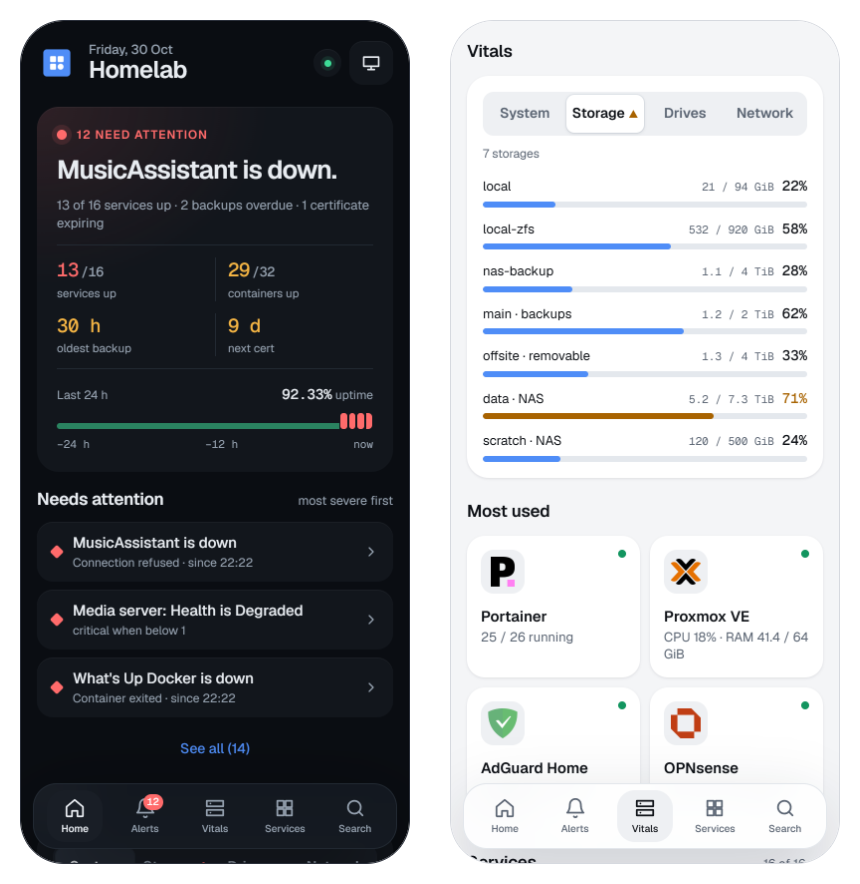
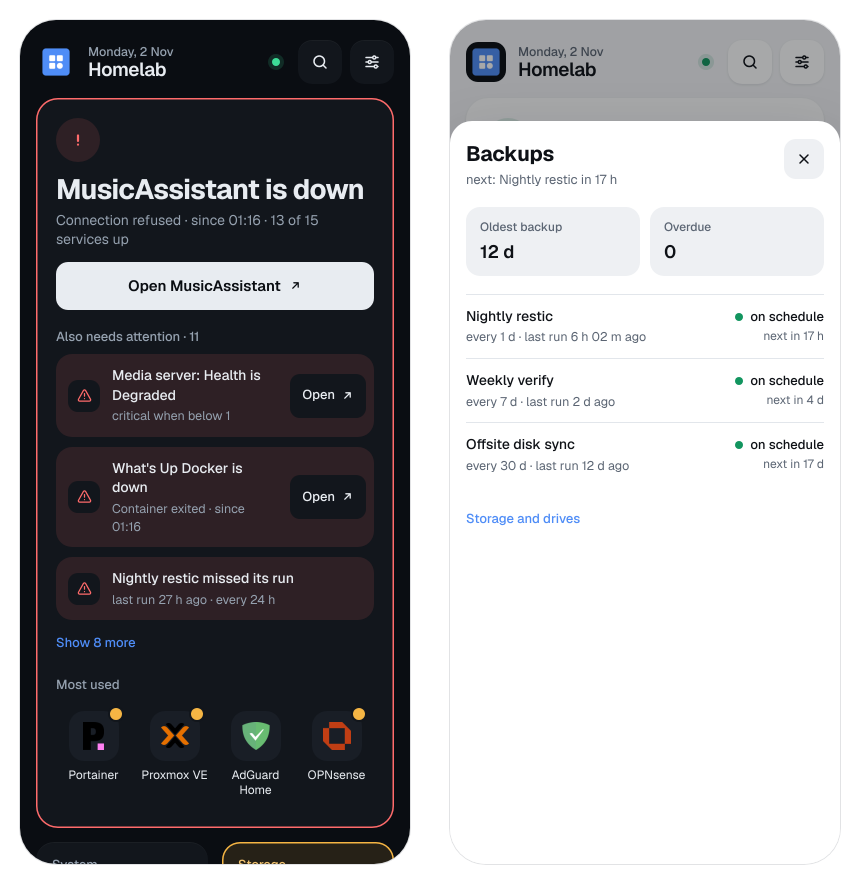
Service sheet activity, new README screenshots
- The service sheet lists what is raised about the service now and its
  events of the last 7 days, from a new read-only /api/events?sid= route
  (known service ids only), refreshed when something changes.
- db: serviceEvents(sid, since, limit) with an (sid, ts) index.
- README screenshots retaken in demo mode for the redesign; alt texts
  describe the new layout.
- config.example: the two new backup jobs used a selfh.st icon that does
  not exist; they use rclone and proxmox-backup-server.

Claude-Session: https://claude.ai/code/session_01BawsogARvbpupzuU6fZL8L

diff --git a/src/routes/+page.svelte b/src/routes/+page.svelte
@@ -130,6 +130,26 @@
   const sheetId = $derived(sheet?.kind === 'service' ? sheet.id : null);
   const sheetTile = $derived(sheetId ? allServices.find((t) => t.id === sheetId) ?? null : null);
   const sheetJob = $derived(sheetId ? jobById.get(sheetId) ?? null : null);
+  // the service sheet's activity: what is raised about it now, then its events of the last 7 days (fetched, since the
+  // snapshot only carries the latest events of all services), refreshed when something changes
+  let svcEvents = $state<{ sid: string; items: FeedItem[] } | null>(null);
+  $effect(() => {
+    const sid = sheetId;
+    void snap?.lastChange;
+    if (!sid || !sheetOpen) return;
+    const ctl = new AbortController();
+    fetch(`/api/events?sid=${encodeURIComponent(sid)}`, { signal: ctl.signal })
+      .then((r) => (r.ok ? r.json() : []))
+      .then((items: FeedItem[]) => (svcEvents = { sid, items }))
+      .catch(() => {});
+    return () => ctl.abort();
+  });
+  const sheetActivity = $derived.by(() => {
+    if (!snap || !sheetId) return [];
+    const raised = snap.attention.filter((a) => a.sid === sheetId);
+    const past = svcEvents?.sid === sheetId ? svcEvents.items : snap.events.filter((e) => e.sid === sheetId);
+    return [...raised, ...past.filter((e) => !raised.some((a) => a.title.endsWith(e.title)))];
+  });
   const sheetTitle = $derived(
     sheet?.kind === 'service' ? sheetTile?.name ?? '' : sheet?.kind === 'vitals' ? 'Vitals' : sheet?.kind === 'backups' ? 'Backups' : 'Activity'
   );
@@ -464,6 +484,14 @@
         {#if t.cert}<div><dt>Certificate</dt><dd>{t.cert.days < 0 ? 'expired' : `valid ${t.cert.days} d`}{t.cert.selfSigned ? ' · self-signed' : ''}</dd></div>{/if}
         {#if t.description}<div><dt>About</dt><dd>{t.description}</dd></div>{/if}
       </dl>
+      <div class="sh-block">
+        <div class="sh-row"><span class="st">Activity</span><span class="muted small">Last 7 days</span></div>
+        {#if sheetActivity.length}
+          <ul class="evs">{#each sheetActivity as a (a.ts + a.title)}{@render event(a)}{/each}</ul>
+        {:else}
+          <p class="muted small">No events in the last 7 days.</p>
+        {/if}
+      </div>
     {:else if sheet?.kind === 'vitals'}
       <Vitals host={snap.host} storage={snap.storage} drives={snap.drives} network={snap.network} {target} initial={sheet.tab} />
     {:else if sheet?.kind === 'backups'}

diff --git a/src/lib/server/db.ts b/src/lib/server/db.ts
@@ -29,6 +29,7 @@ export function openDb(): DatabaseSync {
     CREATE INDEX IF NOT EXISTS metrics_key_ts ON metrics (key, ts);
     CREATE TABLE IF NOT EXISTS events (id INTEGER PRIMARY KEY, ts INTEGER NOT NULL, sev TEXT NOT NULL, sid TEXT, title TEXT NOT NULL, detail TEXT);
     CREATE INDEX IF NOT EXISTS events_ts ON events (ts);
+    CREATE INDEX IF NOT EXISTS events_sid_ts ON events (sid, ts);
     CREATE TABLE IF NOT EXISTS opens (sid TEXT PRIMARY KEY, n INTEGER NOT NULL DEFAULT 0, last INTEGER, score REAL NOT NULL DEFAULT 0);
     CREATE TABLE IF NOT EXISTS kv (k TEXT PRIMARY KEY, v TEXT);
   `);
@@ -57,6 +58,11 @@ export const insertEvent = (ts: number, sev: WidgetEvent['sev'], sid: string | n
 
 export function recentEvents(since: number, limit = 6) {
   return all<EventRow>('SELECT ts, sev, sid, title, detail FROM events WHERE ts >= ? ORDER BY ts DESC LIMIT ?', since, limit);
+}
+
+/** One service's events, newest first: the service sheet's activity. */
+export function serviceEvents(sid: string, since: number, limit = 30) {
+  return all<EventRow>('SELECT ts, sev, sid, title, detail FROM events WHERE sid = ? AND ts >= ? ORDER BY ts DESC LIMIT ?', sid, since, limit);
 }
 
 export function lastProbes(sid: string, n: number) {

diff --git a/src/lib/server/check.test.ts b/src/lib/server/check.test.ts
@@ -12,7 +12,7 @@ process.env.CONFIG_DIR = tmp;
 delete process.env.DEMO;
 const { kindOf, record, status } = await import('./check.ts');
 const { heartbeatState } = await import('./heartbeat.ts');
-const { lastProbes, recentEvents } = await import('./db.ts');
+const { lastProbes, serviceEvents } = await import('./db.ts');
 const { reasonText } = await import('./http.ts');
 const { fmtClock, fmtDuration } = await import('./format.ts');
 const { snapshotInput } = await import('./test-helpers.ts');
@@ -31,7 +31,7 @@ function one(def: TestService) {
   const s = input.cfg.services[0];
   return { s, st: input.state(s.id) };
 }
-const events = (sid: string) => recentEvents(0, 100).filter((e) => e.sid === sid).reverse().map((e) => [e.sev, e.title, e.detail]);
+const events = (sid: string) => serviceEvents(sid, 0, 100).reverse().map((e) => [e.sev, e.title, e.detail]);
 /** History rows, oldest first. */
 const history = (sid: string) => lastProbes(sid, 100).reverse().map((r) => r.ok);
 

diff --git a/src/routes/api/events/+server.ts b/src/routes/api/events/+server.ts
@@ -1,0 +1,15 @@
+import type { RequestHandler } from './$types';
+import { json } from '@sveltejs/kit';
+import { getEngine } from '$lib/server/engine.ts';
+import { serviceEvents } from '$lib/server/db.ts';
+
+const WEEK = 7 * 86_400_000;
+
+// One service's events over the last 7 days, for its sheet. The snapshot only carries the last 20 events of all services.
+export const GET: RequestHandler = ({ url }) => {
+  const sid = url.searchParams.get('sid');
+  const service = sid && getEngine().cfg.services.find((s) => s.id === sid);
+  if (!service) return new Response(null, { status: 404 });
+  const events = serviceEvents(service.id, Date.now() - WEEK).map((e) => ({ ...e, href: service.href ?? null }));
+  return json(events, { headers: { 'cache-control': 'no-store' } });
+};

diff --git a/README.md b/README.md
@@ -8,12 +8,12 @@ A self-hosted launcher and status page for a homelab on **any Docker host**: it 
 
 It is made for your **LAN or VPN** (WireGuard, Tailscale, …): it has no login of its own and must not be reachable from the internet.
 
-![Dashboard in dark mode: the overall status, the problems that need attention, host vitals and the most used services](docs/screenshots/desktop-dark.png)
+![Dashboard in dark mode with problems: the top problem with its Open button, the others that need attention, the most used services, the four vitals cards, the launcher and recent activity](docs/screenshots/desktop-dark.png)
 
 - **One glance.** One sentence gives the state ("All 15 services up · 3 jobs on schedule", or the most important problem with a button to open that service), then whatever else needs attention, most severe first. When all is well, the page is short and quiet.
 - **Vitals at a glance, details on demand.** Four cards with one figure each: **System** (CPU, memory, temperature of the Proxmox node or the machine the dashboard runs on), **Storage** (the fullest, and any drive to check), **Network** (WAN traffic, DNS block rate) and **Backups** (PBS and backup jobs, the next one due). A card opens a sheet with the full detail: 24-hour trends, every storage and drive with SMART health, traffic charts, each job's schedule.
 - **Launcher.** The services you open most, picked automatically, then every service with a link, grouped as in `services.yaml`, with nothing on an icon but a small marker when it has a problem. Press `/` or `⌘K` / `Ctrl+K` for the command palette.
-- **Checks.** Every service is checked every 30 s, which gives uptime (24 h and 7 d), p95 latency and a 24-hour health strip; the **Status** view of the services, and each service's sheet, show them. The dashboard also tracks certificate expiry, backup age per guest, failed or unhealthy containers, SMART status and pending Proxmox updates.
+- **Checks.** Every service is checked every 30 s, which gives uptime (24 h and 7 d), p95 latency and a 24-hour health strip; the **Status** view of the services, and each service's sheet, show them, and the sheet lists the service's events of the last 7 days. The dashboard also tracks certificate expiry, backup age per guest, failed or unhealthy containers, SMART status and pending Proxmox updates.
 - **Live and installable.** Updates are pushed to the browser as they happen, and a service whose status changes is briefly highlighted. If updates stop, the page says so and greys out instead of showing old data as current. It installs as an app (PWA) on phones and desktops, with the number of open problems on its icon, in light and dark themes.
 - **Works without Proxmox.** On a plain Docker host you still get the machine's vitals, your containers (through a read-only socket proxy), values from any JSON API with alert thresholds, `tcp://` checks for services without a web page, and heartbeats: backup and cron jobs report when they ran, and a missed or failed run becomes an alert.
 - **Works with gethomepage configs.** [gethomepage](https://gethomepage.dev)'s `services.yaml`, `bookmarks.yaml` and icon names work as they are; its `homepage.*` container labels work once renamed to `dashboard.*`. Services without an icon get one automatically.
@@ -24,9 +24,9 @@ It is made for your **LAN or VPN** (WireGuard, Tailscale, …): it has no login 
 
 ## Screenshots
 
-![Light mode: the vitals card on its Network tab, the most used services, and service tiles with their 24-hour health strips](docs/screenshots/desktop-light.png)
+![Light mode with everything healthy: "All 15 services up", the most used services, the four vitals cards, the launcher and recent activity](docs/screenshots/desktop-light.png)
 
-![On a phone: the status card and the attention list in dark mode, and the Storage tab of the vitals card in light mode](docs/screenshots/phones.png)
+![On a phone: the top problem and the attention list in dark mode, and the Backups sheet with each job's schedule in light mode](docs/screenshots/phones.png)
 
 Every screenshot shows the built-in demo data (`DEMO=1`), not a real homelab.
 

diff --git a/CLAUDE.md b/CLAUDE.md
@@ -27,7 +27,7 @@ One Node process, no worker or external DB. `src/hooks.server.ts` starts a singl
 - **Fixtures** (`demo/<type>.ts`) are `"METHOD /path"` → `({ now, scenario, params, headers, body })` tables served by `fixtureTransport`. Demo mode and the tests use the same transport seam, so integrations run unchanged in both. `demoSources` only fakes what has no integration: probes, certificates, local host, temperatures, 24 h of seeded history.
 - **Checks** (`check.ts`): `record` turns a reading into check state, a history row and events; `status` gives the tile's level, line and alert. `siteMonitor` is probed over HTTP (<500 = up) or, for `tcp://host:port`, by connecting. **Heartbeats** (`heartbeat.ts`, `/api/heartbeat/<id>[/fail]`) are push checks: token compared on SHA-256 digests, 404 for an unknown id or a wrong token, 1 call/s per id; results live in `kv`.
 - **Snapshot** (`snapshot.ts`) holds the status rules: down after 2 failed probes, "slow" when the 1 h p95 exceeds `latencyWarnMs` with ≥10 samples, the certificate, storage and temperature thresholds, the verdict, the fleet strip. `build` runs one function per panel. Those that raise alerts (`configAlerts`, `serviceTiles`, `hostPanel`, `storagePanel`, `drivesPanel`) run before `round.close`, the rest (`applyWorst`, `networkPanel`, `fleetStrip`, `verdictFacts`, `mostUsedRow`) after. History queries go through `perMinute` (read once a minute per builder); live state is never cached. Tested through `build` in `snapshot.test.ts`, with inputs from `test-helpers.ts#snapshotInput`.
-- **Main page** (`+page.svelte`): the hero (`verdict`: one sentence, the top item's Open action, Most used), the other crit/warn items, four vitals cards (System, Storage, Network, Backups) and the services as a **Launch** grid (linked services only, a problem marker) or a **Status** list (every service and job with its line and strip). Details live in sheets (`Sheet.svelte`, a modal `<dialog>`): a service, the vitals (`Vitals.svelte`), backups (`jobs`, `backups`) and activity (`events`). Info items are notes in Activity, not problems. Phones show the same order without a tab bar.
+- **Main page** (`+page.svelte`): the hero (`verdict`: one sentence, the top item's Open action, Most used), the other crit/warn items, four vitals cards (System, Storage, Network, Backups) and the services as a **Launch** grid (linked services only, a problem marker) or a **Status** list (every service and job with its line and strip). Details live in sheets (`Sheet.svelte`, a modal `<dialog>`): a service (with its 7-day events from `/api/events?sid=`), the vitals (`Vitals.svelte`), backups (`jobs`, `backups`) and activity (`events`). Info items are notes in Activity, not problems. Phones show the same order without a tab bar.
 - **Attention** (`attention.ts`): `begin(now)` → `raise({ sev, key, title, service | source })` → `close(events)`; raising after close throws. It names, ages (by key, never by title) and orders alerts, and gives the headline, the feed, `needCount` and `worst(sid)`. `Alert.key` is required and unique per widget result (`integrations.test.ts` checks it).
 - **Config** (`config.ts`): `loadConfig()` deep-merges `settings.yaml` over `DEFAULT_SETTINGS`; intervals below their minimum become problems. `${NAME}` and `{{HOMEPAGE_VAR_NAME}}` resolve from the env, then `NAME_FILE`, then `/run/secrets/<name lowercase>`. A broken file keeps its last version and is recorded as a problem. Missing secrets are recorded by name (not in demo mode).
 - **Config view** (`/config`, `config-view.ts`) is read-only and **allowlist only**: type, URL origin, per-type `SAFE_OPTIONS`, status. `config-view.test.ts` fails if any configured secret reaches the page data. The page (titled Setup) checks the configuration, not service health: it joins `widgets`, `checks` and `icons` onto `services` (one row per service) and shows settings that differ from the default first.

diff --git a/CONTEXT.md b/CONTEXT.md
@@ -30,7 +30,7 @@ Terms used in the code and in design discussions.
 
 **Vitals** — four summary cards under the status overview (System, Storage, Network, Backups), one figure each; a card opens a sheet with the full panels behind tabs: System (the host's gauges), Storage, Drives and Network. A tab is marked with the worst level in its panel; only panels with data get a tab.
 
-**Sheet** — a panel over the page with the details of one thing (a service, the vitals, backups, activity): a side panel on desktop, a bottom sheet on phones. The page itself stays short.
+**Sheet** — a panel over the page with the details of one thing (a service with its own activity, the vitals, backups, activity): a side panel on desktop, a bottom sheet on phones. The page itself stays short.
 
 **Job** — a heartbeat service: something that reports when it ran (a backup, a sync, a verify) rather than being opened. Jobs are counted apart from services, listed in the Backups sheet and the Status view, never in the launcher.
 

diff --git a/CONTRIBUTING.md b/CONTRIBUTING.md
@@ -67,7 +67,7 @@ Guidelines: match gethomepage's widget fields where an equivalent exists. Never 
 - `npm run check` and `npm test` must pass. CI runs them, then builds the image and smoke-tests it in demo mode.
 - Update the docs when behaviour or configuration changes.
 - Screenshots help for UI changes. Take them in demo mode, never from a real setup.
-- The README screenshots are in `docs/screenshots/`. When the UI changes visibly, retake them in demo mode: desktop at 1440×1080, phones at 390×844 with 2× pixel density (`issues` scenario in dark mode, `calm` in light mode).
+- The README screenshots are in `docs/screenshots/`. When the UI changes visibly, retake them in demo mode: desktop at 1440×1080, phones at 390×844 with 2× pixel density, side by side in `phones.png` (`issues` scenario in dark mode, `calm` in light mode with the Backups sheet open).
 
 ## Releases (maintainers)
 
